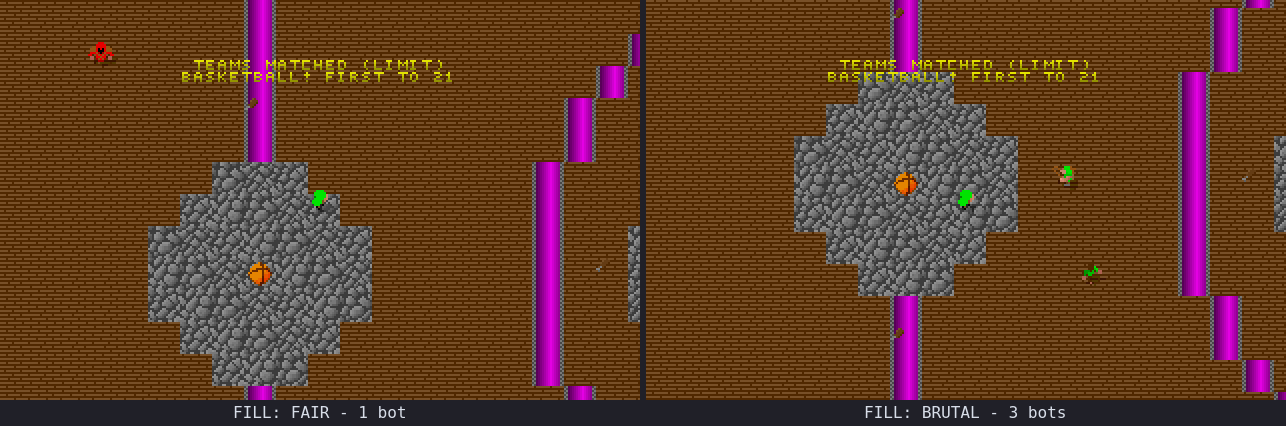
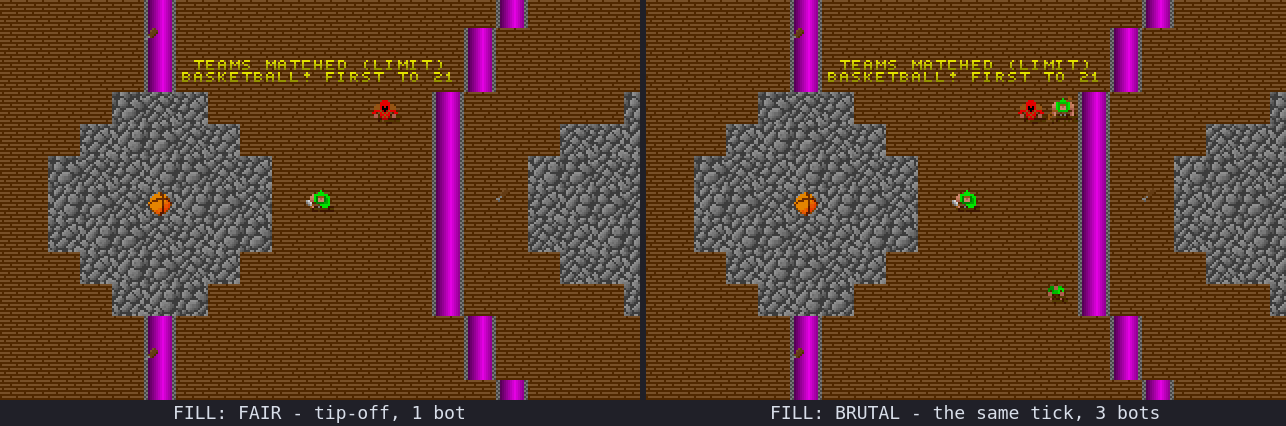
pr-307: recompose the S13 pairs on the kickoff, and two read-back notes
The FAIR half of both #305 side-by-sides came from a later frame, where
CAPTURE_FOCUS=boss had followed the lone bot away from the ball — the soccer
one showed a stretch of top wall with no human and no ball in it, so a reader
could not count bodies against the BRUTAL half. Both pairs are recomposed on
the kickoff: basketball at frame 0 on both sides (the same tick, the same
framing), soccer at frame 0 against frame 8, which is the earliest BRUTAL
frame holding all three bots while the FAIR run's camera is still on the
centre spot. Each caption names its half.

READBACK.md records the recompose, explains the (LIMIT) suffix on the matcher
banner (a clamped power solve, not a capped body count), and notes that
zone_default_modes is byte-identical to the wave-3 preview because nothing in
wave 4 touched Base Camp — with the PPM mtime and the shoot log that date it
to this build.

diff --git a/pr-307/READBACK.md b/pr-307/READBACK.md
@@ -73,8 +73,8 @@ runs past its edge appears in any shot.
 | `cmp_s10_census_x4.png` | TEAM 2's band alone at 4x: `FILL: STRONG` · `MAP UNITS` (dimmed) · `2 BOTS`. |
 | `cmp_s11_viewlevel.png` | S11. Same staged 820, same two-fighter company, same pitch render. BEFORE: `MATCHED BOTS (2) FAIR`. AFTER: `MATCHED BOTS (3) STRONG`. |
 | `cmp_s11_census_x4.png` | The census lines of that pair alone at 4x, stacked, so the `(2) FAIR` → `(3) STRONG` change reads column for column. |
-| `cmp_s13_soccer.png` | Two frames of the same seeded soccer demo (seed 1337, `TEAM_SIZE=1`), left `OPENGLAD_DEMO_FILL=2` (FAIR), right `=4` (BRUTAL). Left: one green bot. Right: the kickoff with the red fighter, the ball and **three** green bots. The FAIR half is labelled as the count the base tree gives at *every* FILL — a claim measured in `after-fill-census.txt`, not asserted from the picture. |
-| `cmp_s13_basketball.png` | The same pair on 824. Left one green bot beside the orange human; right three. |
+| `cmp_s13_soccer.png` | Two frames of the same seeded soccer demo (seed 1337, `TEAM_SIZE=1`), left `OPENGLAD_DEMO_FILL=2` (FAIR), right `=4` (BRUTAL). **Both halves are the kickoff**: the red fighter, the ball on the centre spot, and the bots — one green on the left, **three** on the right. FAIR is frame 0 and BRUTAL frame 8, because `CAPTURE_FOCUS=boss` follows a bot and the FAIR run's camera leaves the kickoff at frame 6, while frame 8 is the earliest BRUTAL frame with all three bots inside the window; the caption names each. (The first composition of this pair used the FAIR run's later camera, which had wandered to the top wall with no human and no ball in frame — it is replaced by this one.) The FAIR half is labelled as the count the base tree gives at *every* FILL — a claim measured in `after-fill-census.txt`, not asserted from the picture. |
+| `cmp_s13_basketball.png` | The same pair on 824, **both halves at frame 0** — the same tick, the same framing. Left: the red human, the orange ball and one green bot. Right: the same tick with three. |
 | `cmp_s14_stamp_x4.png` | The build stamps, stacked: `V2.1076 AAEAB2D7` over `V2.1127 121716F8`. This is the provenance pair for the whole set. |
 
 ## Animations
@@ -111,7 +111,21 @@ runs past its edge appears in any shot.
 4. `setup_step_teams_ball` / `setup_match_ball` were captured and then
    dropped: they are the same two screens as `setup_step_teams` /
    `setup_step_match` with only the keyboard highlight moved.
-5. **The SCENARIO screen's empty band** (`scenario_band`, and the right half
+5. **The soccer pair's two banners differ**: the FAIR half reads
+   `TEAMS MATCHED`, the BRUTAL half `TEAMS MATCHED (LIMIT)` (both basketball
+   halves read `(LIMIT)`). `(LIMIT)` is the pre-existing matcher announce —
+   `campaigns/modes/packs/modes.core/lib/mode_match.lua:500-517` fires it when
+   the first power solve clamped at either end — and it is not a #305 signal:
+   it says the power solve hit a bound, never that the body count was capped.
+   The body count that FILL bought is the one the census reports.
+6. **`zone_default_modes.png` / `_x4.png` are byte-identical to the wave-3
+   preview copies** under `media/wp7-preview/`. That is not a substitution:
+   `work/ppm-after/zone_default_modes.ppm` carries this capture session's
+   23:21 mtime and `work/shoot_after.log` records its
+   `zz_capture_default_zone_across_campaigns` run on the `121716f8` binary. Nothing
+   in wave 4 touched Base Camp and the renderer is deterministic, so the same
+   screen produced the same bytes.
+7. **The SCENARIO screen's empty band** (`scenario_band`, and the right half
    of `cmp_s6_scenario.png`) is where the `SCORE: MAP` row used to be. That
    is the shape SPEC §8 prescribes — `ctf_capture_limit` now has one surface
    — but it is the one place a reviewer's eye will stop, and it is shipped
